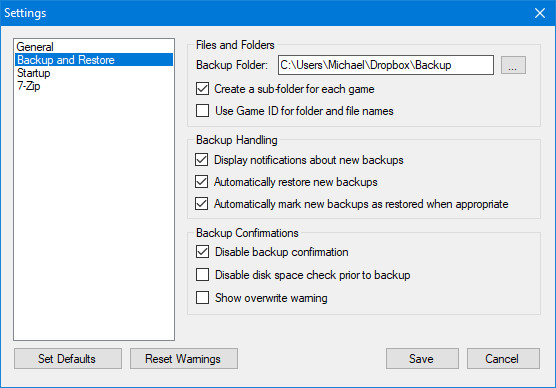
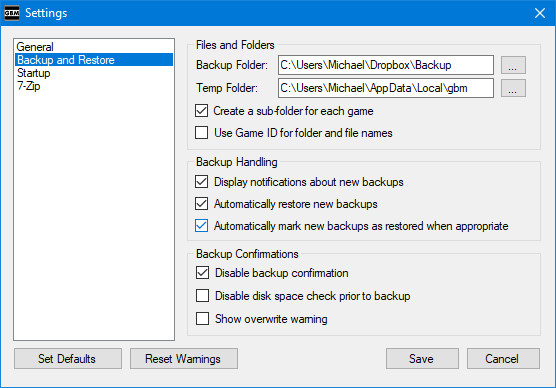
Updates for manual

Changed region(s): [[0.3363, 0.4021, 0.9173, 0.8351], [0.3363, 0.1856, 0.9478, 0.3711], [0.0, 0.0, 0.1223, 0.0619]]

diff --git a/manual.html b/manual.html
@@ -33,7 +33,7 @@
             Game Backup Monitor v1.2.0 Manual
           </div>
           <div class="pageSectionContent">
-            <h3 class="notop">Updated October 28, 2019</h3>
+            <h3 class="notop">Updated November 1, 2019</h3>
             <h3>Disclaimer:</h3>
             <p>This manual may contain information about features not available in the current stable release.</p>
             <p>If you are having a specific problem, please check the <a href="https://github.com/MikeMaximus/gbm/issues">issues</a> list.</p>
@@ -46,6 +46,7 @@
               <li><a href="#settings">Settings</a></li>
               <li><a href="#gamemanager">The Game Manager</a></li>
               <li><a href="#registry">Windows Registry Backups</a></li>
+              <li><a href="#fullbackuprestore">Full Backup and Restore</a></li>
               <li><a href="#search">Search</a></li>
               <li><a href="#import">Importing Game Configurations</a></li>
               <li><a href="#customvariables">Custom Path Variables</a></li>
@@ -168,6 +169,8 @@
             <img class="manual" src="images/manual/manual_17.jpg" width="556" height="388" alt="Settings" />
             <h4>Backup Folder:</h4>
             <p>This is the backup folder where GBM stores all game backups and it's remote database.</p>
+            <h4>Temp Folder:</h4>
+            <p>This is the temporary folder that GBM uses to process backup files before they are moved to the Backup Folder.</p>
             <h4>Create a sub-folder for each game:</h4>
             <p>This indicates if you want GBM to create a sub-folder in the backup folder for each game. This is handy for keeping your backup folder more organized.</p>
             <h4>Use Game ID for folder and file names:</h4>
@@ -424,6 +427,29 @@
               <li>GBM only supports saving and restoring to the HKEY_LOCAL_MACHINE and HKEY_CURRENT_USER registry hives.</li>
               <li>GBM detects registry configurations based on the presence of HKEY_LOCAL_MACHINE, HKLM, HKEY_CURRENT_USER or HKCU at the start of a path.</li>
               <li>The Game Manager will disable all the features that are not supported when a registry configuration is detected.</li>
+            </ul>
+          </div>
+          <div class="pageSectionFooter">
+            <a href="#toc">Back to Contents</a>
+          </div>
+        </div>
+        <div class="pageSection">
+          <div class="pageSectionHeader">
+            <a name="fullbackuprestore" id="fullbackuprestore">Full Backup and Restore</a>
+          </div>
+          <div class="pageSectionContent">
+            <p>You can easily backup or restore your entire game list using the "Run Full Backup" or "Run Full Restore" options available in the File menu or system tray menu.</p>
+            <img class="manual" src="images/manual/manual_26.jpg" width="526" height="434" alt="Full Backup and Restore" />
+            <h4>Important Details:</h4>
+            <ul>
+              <li>When running a full backup or restore, important checks that normally require user input are automatically dealt with by GBM to ensure the process is quick and easy.
+              <ul>
+                  <li>Backup files will be automatically ovewritten when required.</li>
+                  <li>Missing folders will be automatically created when required.</li>
+                  <li>Any critical error or missing information that requires user input will cancel the individual backup or restore.</li>
+                  <li>When the estimated disk space required for the full backup is more than what is available, the entire operation will be aborted.</li>
+              </ul></li>
+              <li>Notifications about warnings and errors are automatically suppressed when doing a full backup or restore.</li>
             </ul>
           </div>
           <div class="pageSectionFooter">

diff --git a/index.html b/index.html
@@ -47,7 +47,7 @@
             <ul>
               <li><a href="https://github.com/MikeMaximus/gbm/releases/tag/v1.1.9HF2">v1.1.9 Hotfix 2</a> has been released!</li>   
               <li>Work on <a href="https://github.com/MikeMaximus/gbm/compare/v120" target=_blank>v1.2.0</a> is nearly complete and it will be released in the new few weeks.  Check out the current <a href="https://raw.githubusercontent.com/MikeMaximus/gbm/v120/GBM/readme.txt" target=_blank>readme.txt</a> for a list of new features and fixes.</li>
-              <li>After the next release, the current iteration GBM will only receive maintenance changes, bug fixes, and official game list updates.  I plan to port GBM to a more modern platform, as .NET 4 is getting very old.</li>
+              <li>After the next release, the current iteration of GBM will only receive maintenance changes, bug fixes, and official game list updates.  I plan to port GBM to a more modern platform, as .NET 4 is getting very old.</li>
             </ul>
             <h3>Notices</h3>
             <ul>
